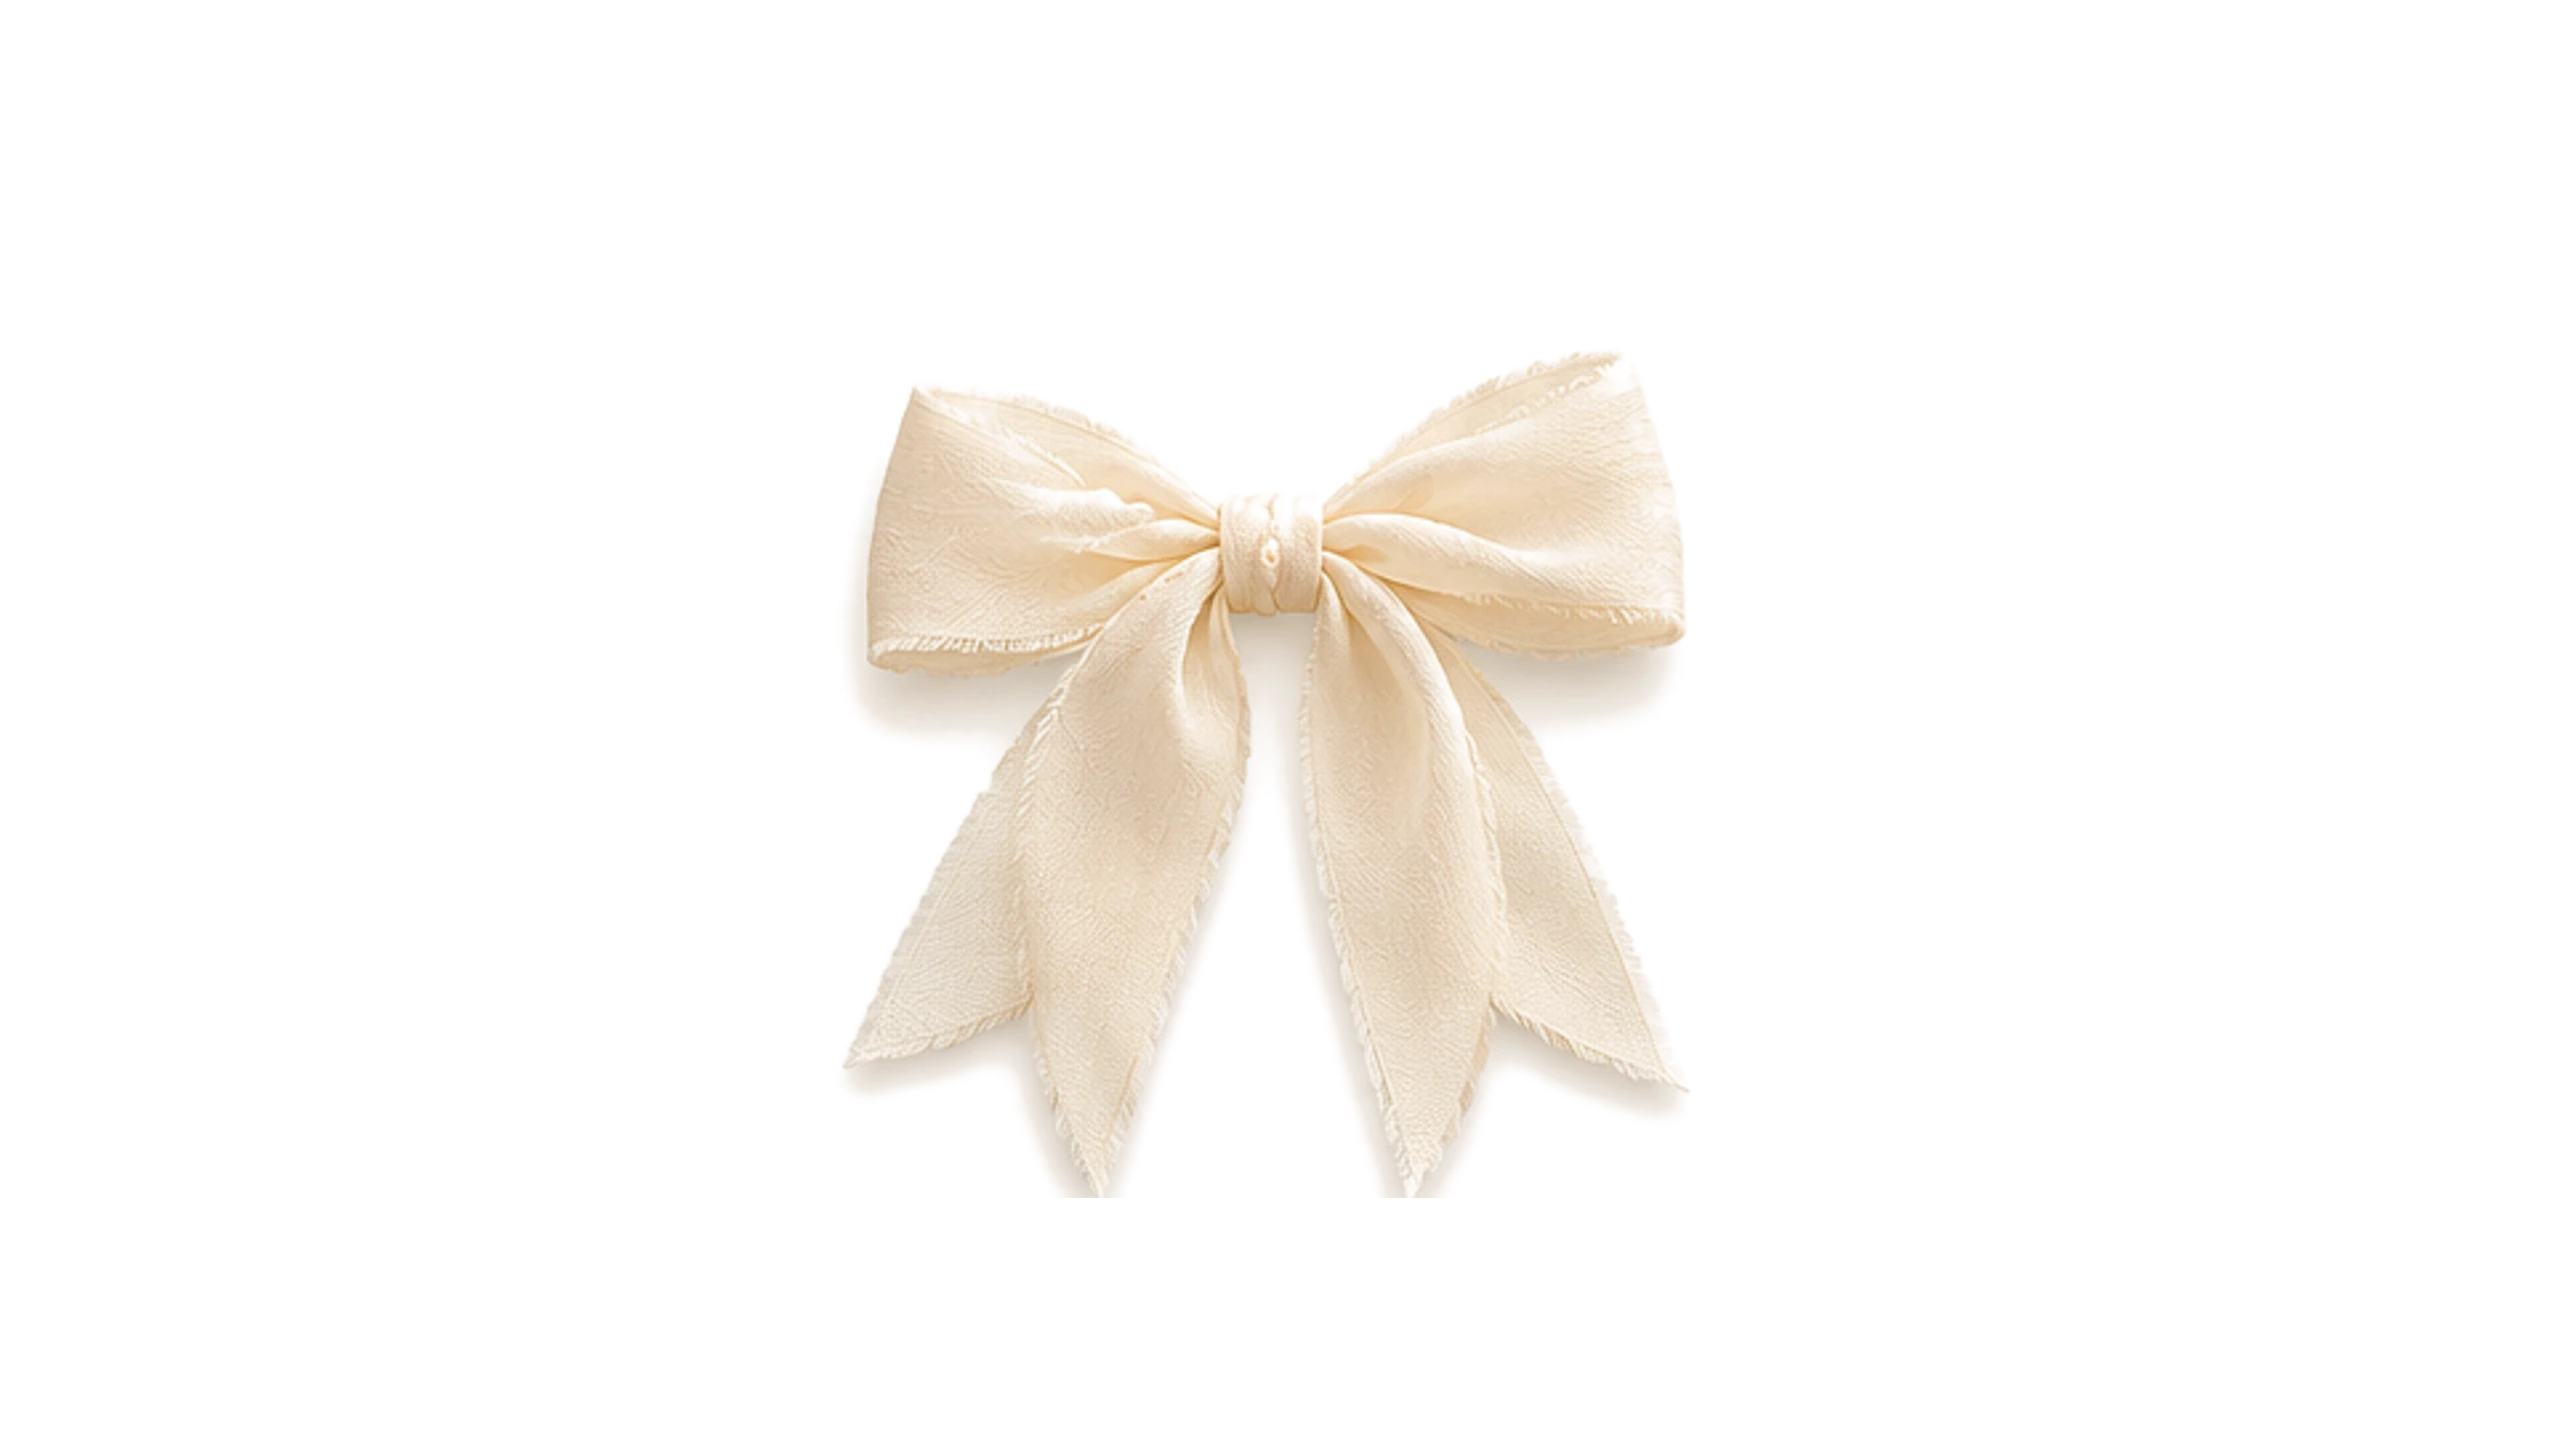
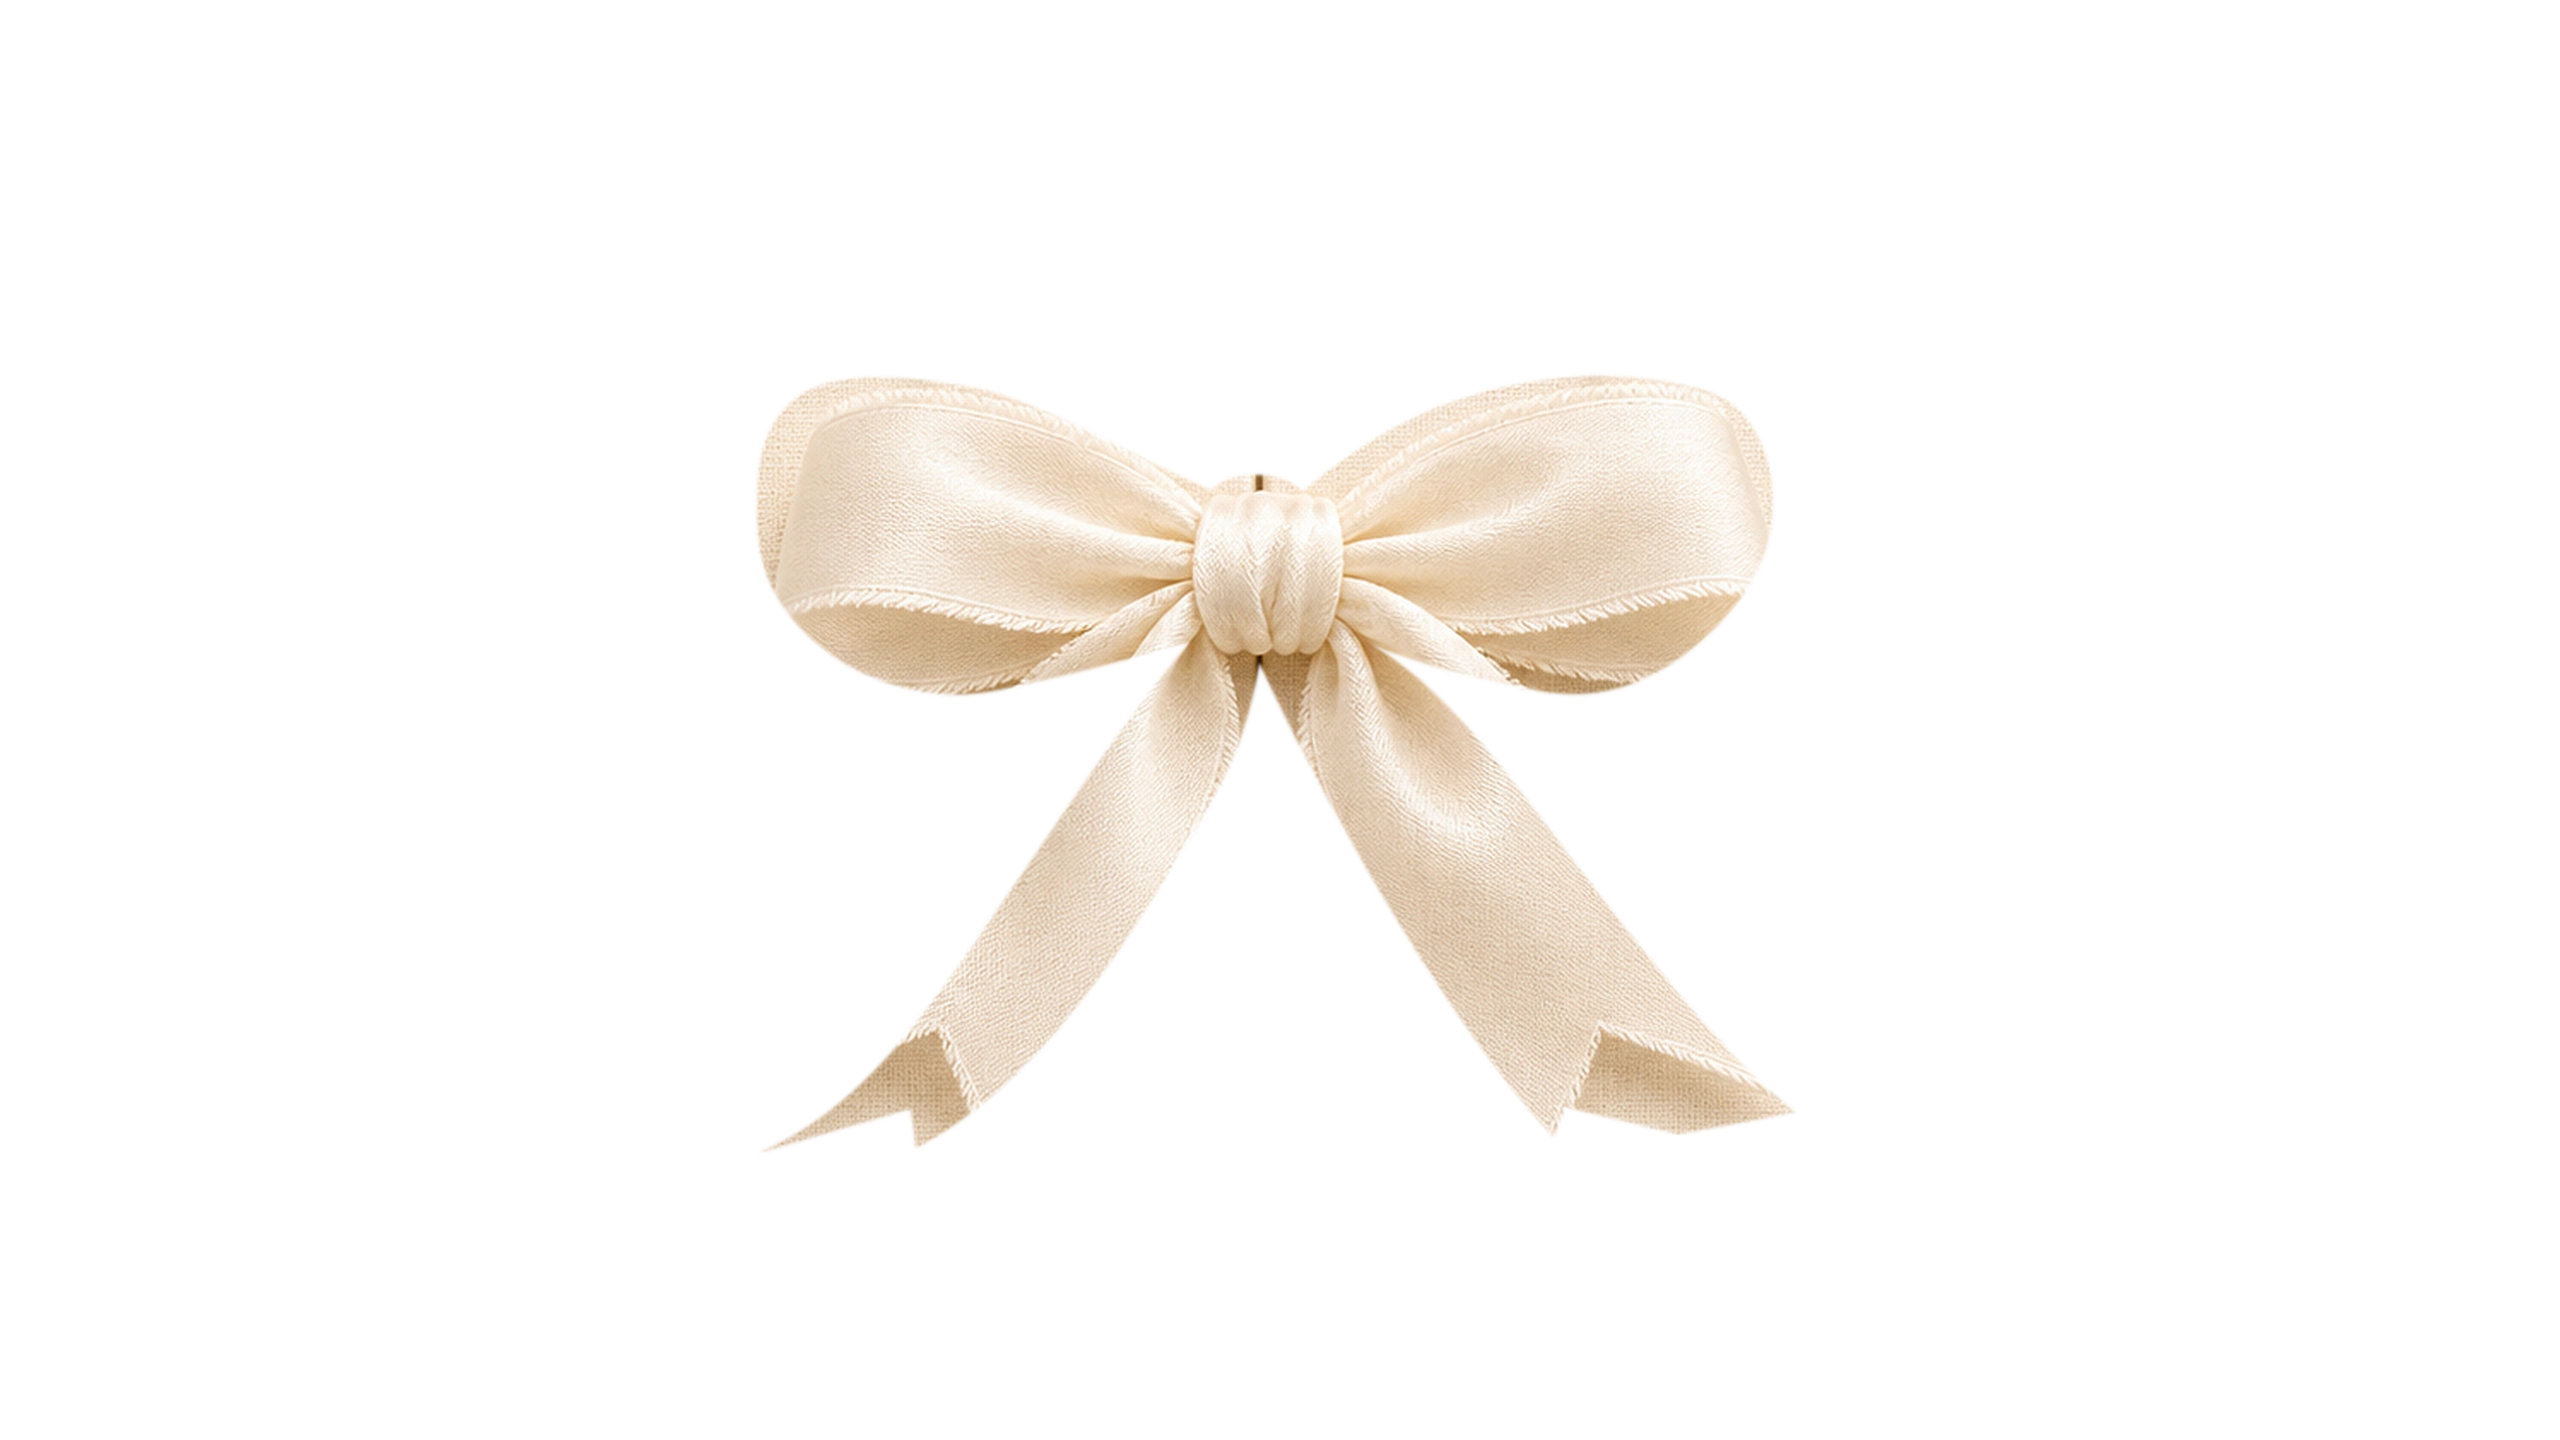
Refactor code structure for improved readability and maintainability

Changed region(s): [[0.2812, 0.25, 0.7188, 0.8438]]

diff --git a/components/EmbroideredDoors.tsx b/components/EmbroideredDoors.tsx
@@ -19,17 +19,17 @@ export function EmbroideredDoors({ theme = "sage", opening, onOpen, triggerRef, 
   const vars = {
     "--doors-m": `url("${base}/doors-mobile.svg")`,
     "--doors-d": `url("${base}/doors-desktop.svg")`,
-    "--bow-m": `url("${base}/bow-mobile.svg")`,
-    "--bow-d": `url("${base}/bow-desktop.svg")`,
+    "--bow-m": `url("${base}/bow-mobile.webp")`,
+    "--bow-d": `url("${base}/bow-desktop.webp")`,
     "--linen": 'url("/art/linen.webp")',
   } as CSSProperties;
 
   return <>
     {/* Preload the matching size only. Next/React may move these into the head. */}
     <link rel="preload" as="image" href={`${base}/doors-mobile.svg`} media="(max-width: 899px), (orientation: portrait)" />
-    <link rel="preload" as="image" href={`${base}/bow-mobile.svg`} media="(max-width: 899px), (orientation: portrait)" />
+    <link rel="preload" as="image" href={`${base}/bow-mobile.webp`} media="(max-width: 899px), (orientation: portrait)" />
     <link rel="preload" as="image" href={`${base}/doors-desktop.svg`} media="(min-width: 900px) and (orientation: landscape)" />
-    <link rel="preload" as="image" href={`${base}/bow-desktop.svg`} media="(min-width: 900px) and (orientation: landscape)" />
+    <link rel="preload" as="image" href={`${base}/bow-desktop.webp`} media="(min-width: 900px) and (orientation: landscape)" />
 
     <div className={`${s.stage} ${opening ? s.open : ""}`} style={vars}>
       <div className={s.content}>{children}</div>

diff --git a/components/EmbroideredDoors.module.css b/components/EmbroideredDoors.module.css
@@ -53,6 +53,21 @@
   mix-blend-mode: multiply;
   pointer-events: none;
 }
+/* A woven silk band behind the independently opening ribbon halves. */
+.panel::before {
+  content: "";
+  position: absolute;
+  z-index: 2;
+  left: 0;
+  right: 0;
+  top: calc(53% - clamp(20px, 4.2dvh, 44px));
+  height: clamp(40px, 8.4dvh, 88px);
+  background:
+    repeating-linear-gradient(0deg, rgba(255,255,255,.055) 0 1px, transparent 1px 3px),
+    linear-gradient(180deg, rgba(255,250,242,.38), rgba(232,215,191,.22) 50%, rgba(255,250,242,.27));
+  box-shadow: 0 2px 3px rgba(74,52,23,.055), 0 -1px 2px rgba(74,52,23,.035);
+  pointer-events: none;
+}
 .bow {
   position: absolute;
   inset: 0;
@@ -60,7 +75,7 @@
   background-position: left top;
   background-size: 200% 100%;
   background-repeat: no-repeat;
-  filter: drop-shadow(0 2px 3px #3b2c1b40) drop-shadow(0 10px 12px #3b2c1b1e);
+  filter: drop-shadow(0 4px 6px rgba(46,29,16,.18)) drop-shadow(0 20px 22px rgba(46,29,16,.12));
   transition: transform .8s ease, opacity .65s ease;
   z-index: 3;
 }
